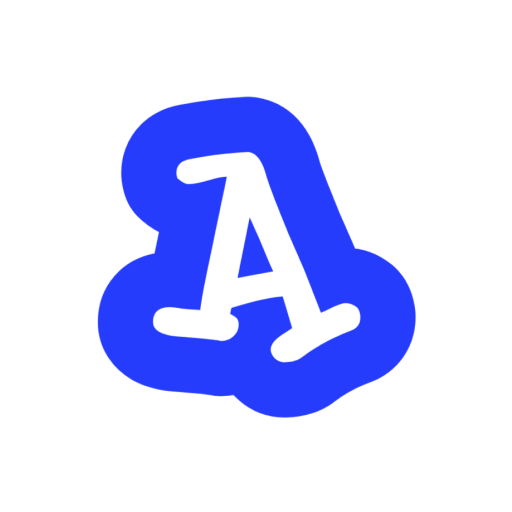
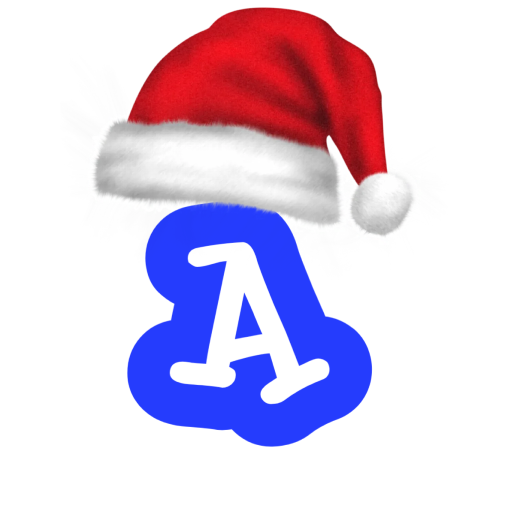
Chrismas additions

diff --git a/src/routes/+page.svelte b/src/routes/+page.svelte
@@ -424,7 +424,7 @@
     <p style="width: 100%; text-align: center;">
         <i>
             <LocalizedText
-                text="Scratch Note: Please don't mention ArkIDE on Scratch, we have different rules compared to Scratch! 😅"
+                text="ArkIDE is feeling chrismas-y. Even though at the time of writing its november lol."
                 key="home.scratchnote"
                 lang={currentLang}
             />

diff --git a/README.md b/README.md
@@ -2,3 +2,5 @@
 The main home page for ArkIDE, which has community-made projects and other content.
 
 Forked from the Penguinmod Project
+
+- Note to self: After January 1st change all of the logos back to the normal Non-Chrismas ones.
